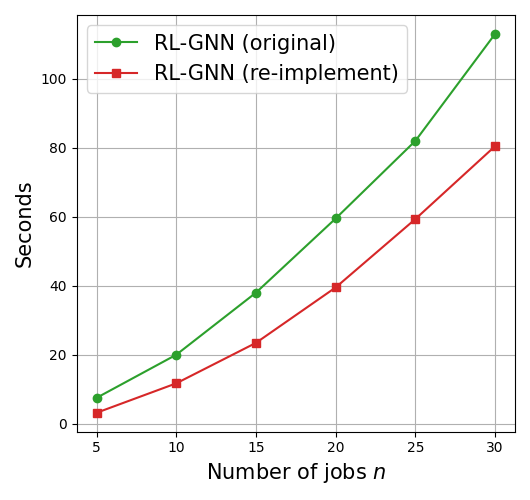
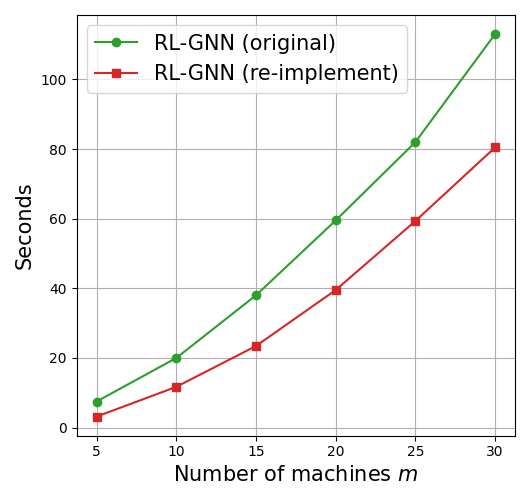
update

diff --git a/plt/plot_complexity.py b/plt/plot_complexity.py
@@ -31,8 +31,8 @@ obj2 = times_for_plot[2]  # ours-500
 
 # plotting...
 plt.figure(figsize=(5.3, 5))
-plt.xlabel('Number of jobs {}'.format(r'$n$'), {'size': x_label_scale})
-# plt.xlabel('Number of machines {}'.format(r'$m$'), {'size': x_label_scale})
+# plt.xlabel('Number of jobs {}'.format(r'$n$'), {'size': x_label_scale})
+plt.xlabel('Number of machines {}'.format(r'$m$'), {'size': x_label_scale})
 
 plt.ylabel('Seconds', {'size': y_label_scale})
 plt.grid()
